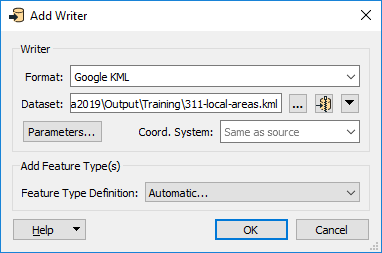
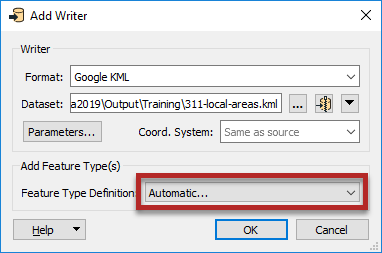
2019 review updates for Ex 4.1

Changed region(s): [[0.3455, 0.664, 0.9791, 0.8577]]

diff --git a/4.workflows/4.04.ex4.1.md b/4.workflows/4.04.ex4.1.md
@@ -17,7 +17,7 @@ Start Workbench (if necessary) and open the workspace from Exercise 3.3. Alterna
 
 # 2) Add a CSV Reader
 
-The planning department has sent you their summary data in a Excel file. Click Readers > Add Reader:
+The planning department has sent you their summary data in a CSV file. Click Readers > Add Reader:
 
 ![](./Images/add-reader.png)
 
@@ -75,7 +75,7 @@ Double-click it or press <kbd>Enter</kbd> to add an KML reader. Use the followin
 
   <tr>
     <td style="font-weight: bold">Reader Format</td>
-    <td style="">KML</td>
+    <td style="">Google KML</td>
   </tr>
 
   <tr>
@@ -98,6 +98,8 @@ You will see the Select Feature Types dialog. Click Select all to unselect all f
 The rest of the features types are extra KML data we do not need for this workspace. Click OK. The **local_areas_region** feature type will be added to the workspace. Move it above the CSV reader feature type:
 
 ![](./Images/canvas-csv-kml.png)
+
+As shown in the image above, you can resize the Reader Feature Types bookmark to contain the new feature types by clicking and dragging on any corner of the bookmark. This action will keep the workspace organized. If you forget how to resize bookmarks, please refer back to [Exercise 2.1](../2.translations/2.03.ex2.1.html#5-examine-bookmarks).
 
 # 4) Add a KML Writer
 
@@ -126,7 +128,7 @@ Then fill out the Add Writer dialog:
 
 </table>
 
-Your dialog should look like this:
+Your dialog should look like the image below. Note that Feature Type Definition is changed. We won't discuss this in introductory training, but refer to [the documentation](https://docs.safe.com/fme/html/FME_Desktop_Documentation/FME_Workbench/Workbench/Adding_Writers.htm?Highlight=add%20writer) for more information:
 
 ![](./Images/add-writer-complete.png)
 
@@ -213,7 +215,7 @@ FME has the ability to style your written data. To learn how to style KML, check
 
 {% call template.advanced() %}
 
-The summary data in <strong>311-summary.xlsx</strong> was created with three transformers after the StringReplacer_2, but we don't have time to show these steps in this introductory course.  If you want to try yourself, try starting out with the <a href="https://www.safe.com/transformers/attribute-pivoter/">AttributePivoter</a> and reading about <a href="http://docs.safe.com/fme/2019.0/html/FME_Desktop_Documentation/FME_Transformers/Transformers/attributeexposer.htm">exposing attributes</a>. The solution is available in C:\FMEData2019\Workspaces\IntroToDesktop\Ex4.1-Complete-Advanced.fmw.
+The summary data in <strong>311-summary.csv</strong> was created with three transformers after the StringReplacer_2, but we don't have time to show these steps in this introductory course.  If you want to try yourself, try starting out with the <a href="https://www.safe.com/transformers/attribute-pivoter/">AttributePivoter</a> and reading about <a href="http://docs.safe.com/fme/2019.0/html/FME_Desktop_Documentation/FME_Transformers/Transformers/attributeexposer.htm">exposing attributes</a>. The solution is available in C:\FMEData2019\Workspaces\IntroToDesktop\Ex4.1-Complete-Advanced.fmw.
 
 {% endcall %}
 
